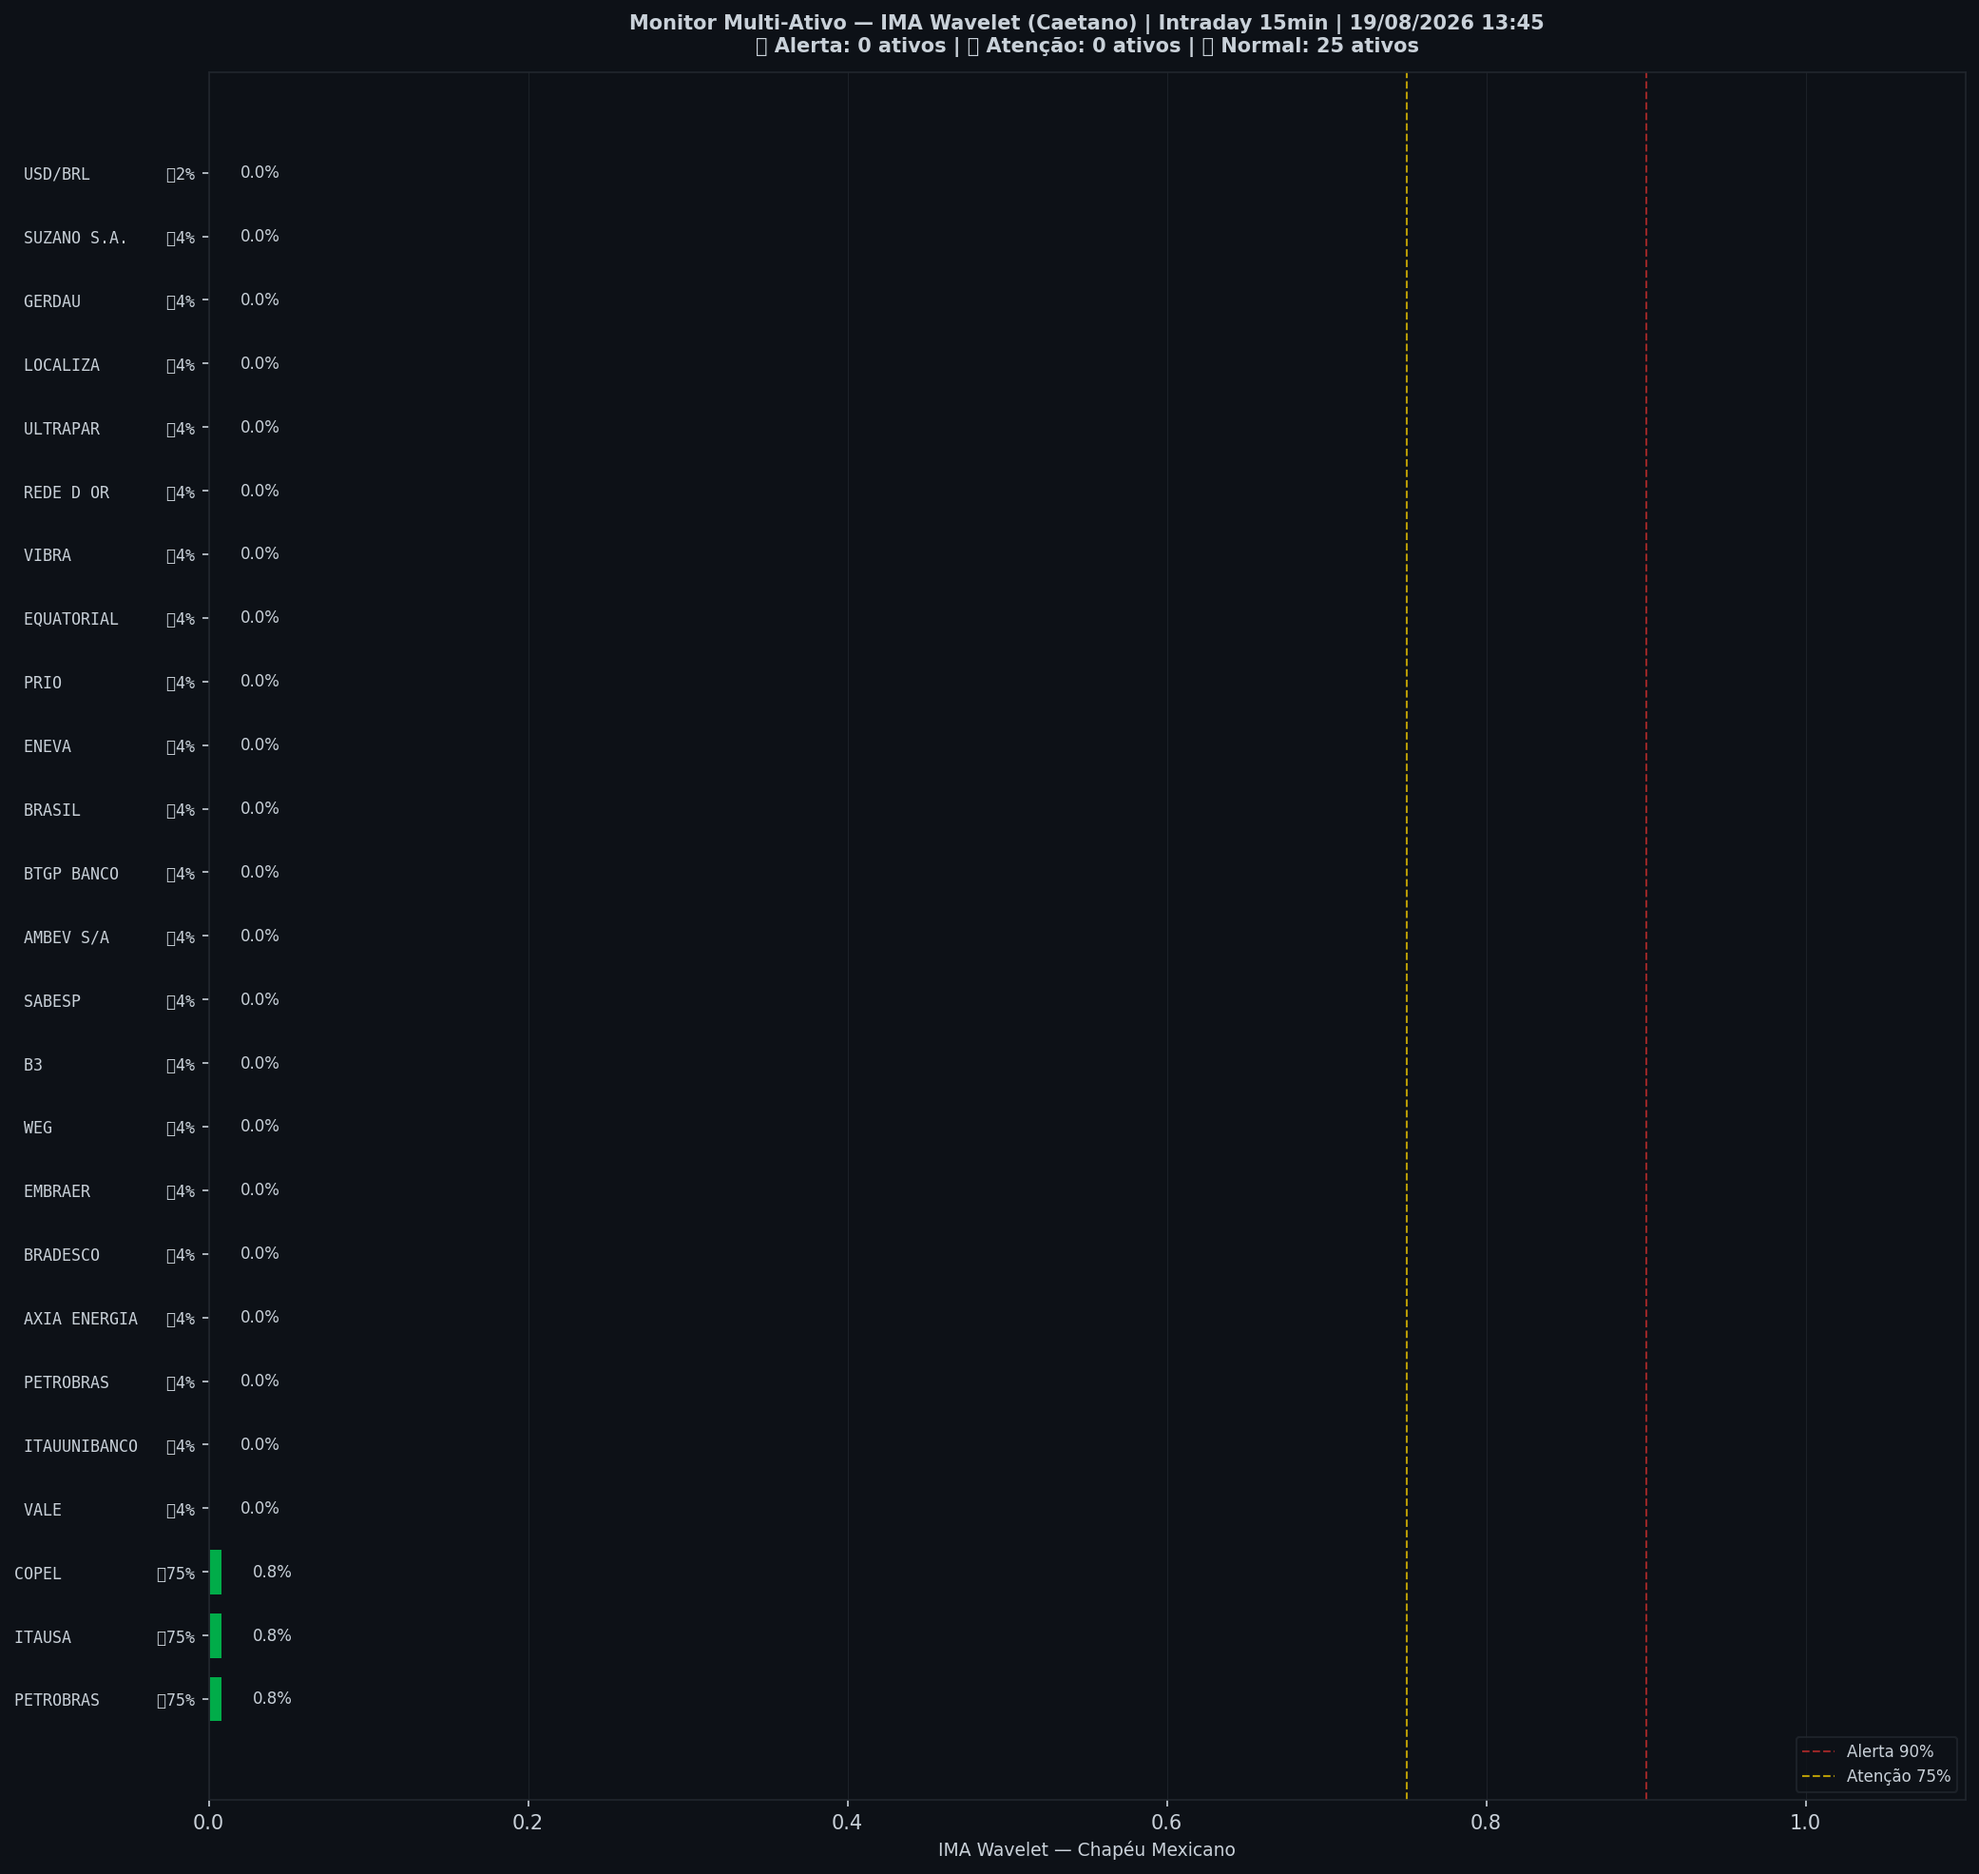
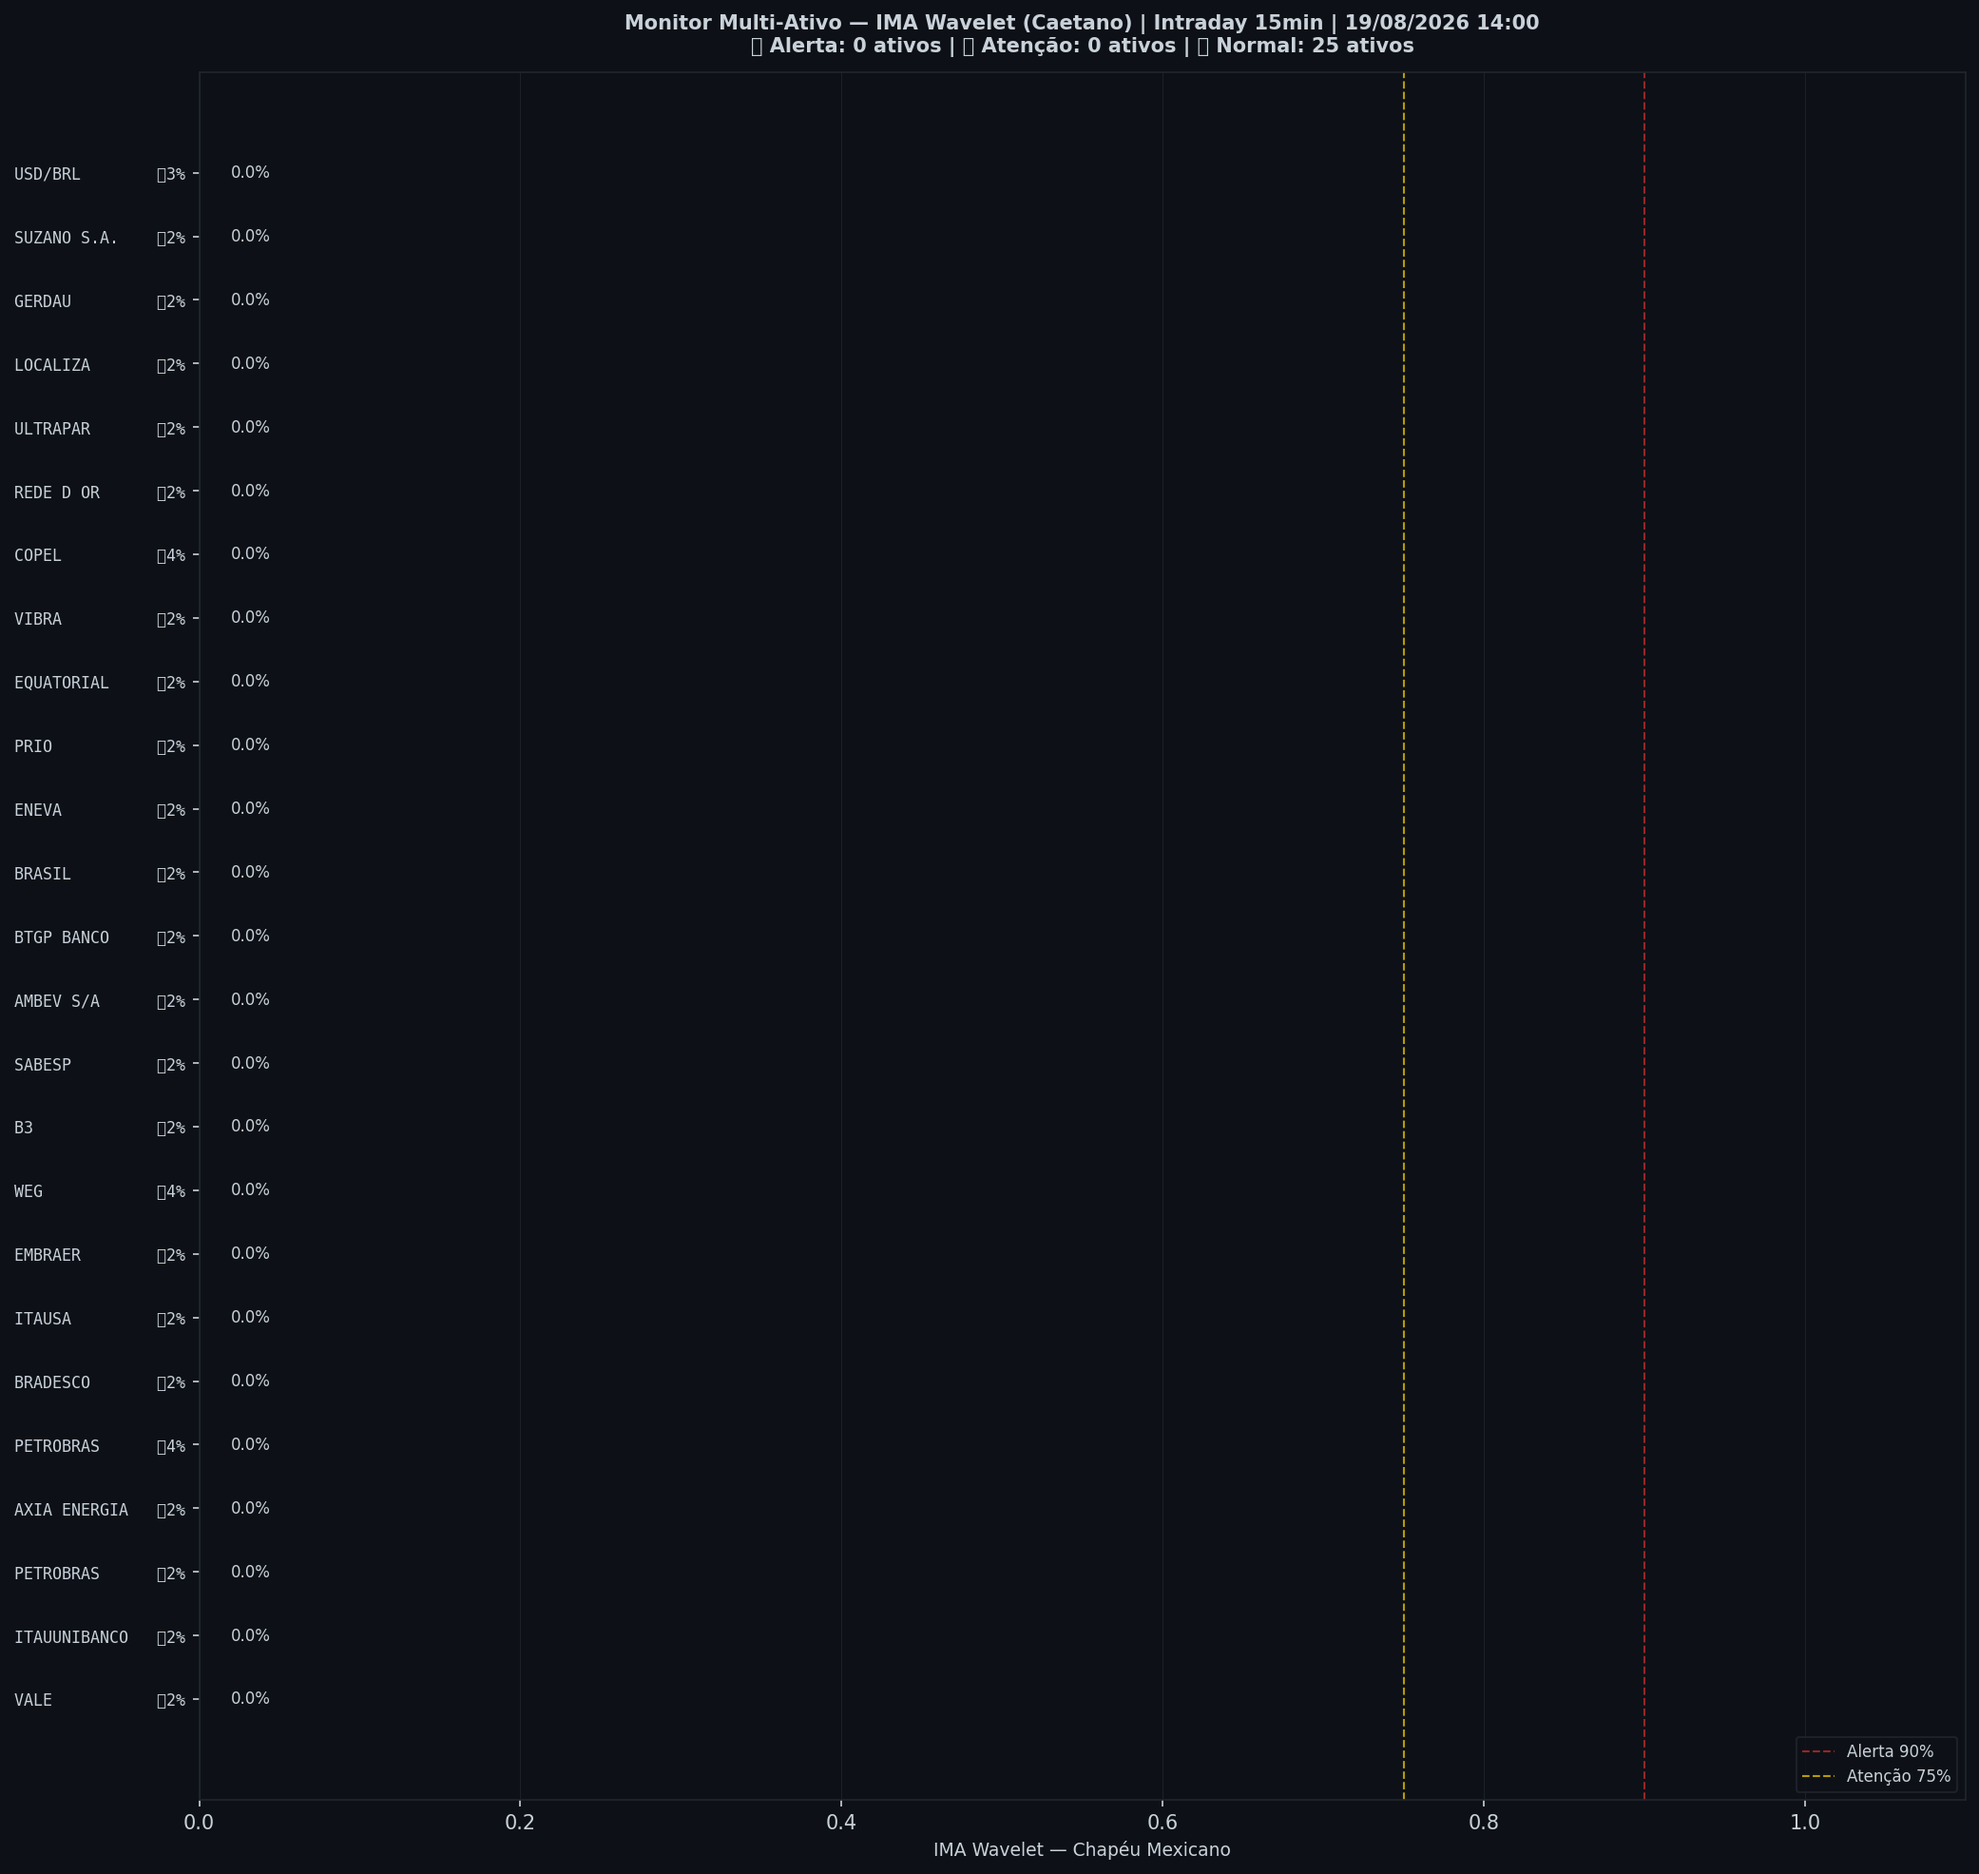
🤖 Auto: Sinal 19/08/2026 14:00

diff --git a/content/intraday/2026-08-19.md b/content/intraday/2026-08-19.md
@@ -1,20 +1,20 @@
 ---
-title: "🔴 Intraday 19/08/2026 13:00 BRT — VERMELHO"
+title: "🔴 Intraday 19/08/2026 13:15 BRT — VERMELHO"
 date: 2026-08-19
 tags: [intraday]
 ---
 
-> [!danger] 🔴 **VERMELHO** — Risco 89% · ▼ -4 p.p. vs leitura anterior
-> `██████████████████░░`
+> [!danger] 🔴 **VERMELHO** — Risco 86% · ▼ -3 p.p. vs leitura anterior
+> `█████████████████░░░`
 > ALERTA DE CRISE — padrão pré-crise detectado.
 
 
 | Indicador | Valor |
 |---|---|
-| 🔴 ζ Crash — severidade da queda em curso | **89%** |
+| 🔴 ζ Crash — severidade da queda em curso | **86%** |
 | 🔵 ζ Entrada — estrutura de fundo | 2% |
 | 🫧 LPPL DS-Confidence | 0% |
-| 📊 Ibovespa | 168.304 pts |
+| 📊 Ibovespa | 167.977 pts |
 
 ![Gráfico do sinal](../graficos/sinal_intraday.png)
 
@@ -22,6 +22,7 @@ tags: [intraday]
 
 | Data | Zona | Risco | IMA Crash | Entrada | LPPL |
 |---|---|---|---|---|---|
+| 2026-08-19 13:15 | 🔴 VERMELHO | **86%** | 86% | 2% | 0% |
 | 2026-08-19 13:00 | 🔴 VERMELHO | **89%** | 89% | 2% | 0% |
 | 2026-08-19 12:45 | 🔴 VERMELHO | **93%** | 93% | 1% | 0% |
 | 2026-08-19 12:30 | 🔴 VERMELHO | **96%** | 96% | 0% | 0% |
@@ -51,7 +52,6 @@ tags: [intraday]
 | 2026-08-18 13:30 | 🟡 AMARELO | **45%** | 45% | 0% | 0% |
 | 2026-08-18 13:15 | 🟡 AMARELO | **51%** | 51% | 0% | 0% |
 | 2026-08-18 13:00 | 🟡 AMARELO | **62%** | 62% | 0% | 0% |
-| 2026-08-18 12:45 | 🟡 AMARELO | **71%** | 71% | 2% | 0% |
 
 ## Monitor Multi-Ativo
 
@@ -59,35 +59,35 @@ tags: [intraday]
 
 | Zona | Ativo | Setor | IMA Crash | IMA Entrada |
 |---|---|---|---|---|
-| 🟢 | **PETROBRAS** | Petróleo | 0.8% | 75.0% |
-| 🟢 | **ITAUSA** | Financeiro | 0.8% | 75.0% |
-| 🟢 | **COPEL** | Energia | 0.8% | 75.0% |
-| 🟢 | **VALE** | Mineração | 0.0% | 3.9% |
-| 🟢 | **ITAUUNIBANCO** | Financeiro | 0.0% | 3.9% |
+| 🟢 | **VALE** | Mineração | 0.0% | 1.6% |
+| 🟢 | **ITAUUNIBANCO** | Financeiro | 0.0% | 1.6% |
+| 🟢 | **PETROBRAS** | Petróleo | 0.0% | 1.6% |
+| 🟢 | **AXIA ENERGIA** | Energia | 0.0% | 1.6% |
 | 🟢 | **PETROBRAS** | Petróleo | 0.0% | 3.9% |
-| 🟢 | **AXIA ENERGIA** | Energia | 0.0% | 3.9% |
-| 🟢 | **BRADESCO** | Financeiro | 0.0% | 3.9% |
-| 🟢 | **EMBRAER** | Outros | 0.0% | 3.9% |
+| 🟢 | **BRADESCO** | Financeiro | 0.0% | 1.6% |
+| 🟢 | **ITAUSA** | Financeiro | 0.0% | 1.6% |
+| 🟢 | **EMBRAER** | Outros | 0.0% | 1.6% |
 | 🟢 | **WEG** | Industrial | 0.0% | 3.9% |
-| 🟢 | **B3** | Financeiro | 0.0% | 3.9% |
-| 🟢 | **SABESP** | Saneamento | 0.0% | 3.9% |
-| 🟢 | **AMBEV S/A** | Consumo | 0.0% | 3.9% |
-| 🟢 | **BTGP BANCO** | Financeiro | 0.0% | 3.9% |
-| 🟢 | **BRASIL** | Financeiro | 0.0% | 3.9% |
-| 🟢 | **ENEVA** | Energia | 0.0% | 3.9% |
-| 🟢 | **PRIO** | Petróleo | 0.0% | 3.9% |
-| 🟢 | **EQUATORIAL** | Energia | 0.0% | 3.9% |
-| 🟢 | **VIBRA** | Energia | 0.0% | 3.9% |
-| 🟢 | **REDE D OR** | Saúde | 0.0% | 3.9% |
-| 🟢 | **ULTRAPAR** | Outros | 0.0% | 3.9% |
-| 🟢 | **LOCALIZA** | Aluguel | 0.0% | 3.9% |
-| 🟢 | **GERDAU** | Siderurgia | 0.0% | 3.9% |
-| 🟢 | **SUZANO S.A.** | Papel/Celulose | 0.0% | 3.9% |
-| 🟢 | **USD/BRL** | Câmbio | 0.0% | 1.6% |
+| 🟢 | **B3** | Financeiro | 0.0% | 1.6% |
+| 🟢 | **SABESP** | Saneamento | 0.0% | 1.6% |
+| 🟢 | **AMBEV S/A** | Consumo | 0.0% | 1.6% |
+| 🟢 | **BTGP BANCO** | Financeiro | 0.0% | 1.6% |
+| 🟢 | **BRASIL** | Financeiro | 0.0% | 1.6% |
+| 🟢 | **ENEVA** | Energia | 0.0% | 1.6% |
+| 🟢 | **PRIO** | Petróleo | 0.0% | 1.6% |
+| 🟢 | **EQUATORIAL** | Energia | 0.0% | 1.6% |
+| 🟢 | **VIBRA** | Energia | 0.0% | 1.6% |
+| 🟢 | **COPEL** | Energia | 0.0% | 3.9% |
+| 🟢 | **REDE D OR** | Saúde | 0.0% | 1.6% |
+| 🟢 | **ULTRAPAR** | Outros | 0.0% | 1.6% |
+| 🟢 | **LOCALIZA** | Aluguel | 0.0% | 1.6% |
+| 🟢 | **GERDAU** | Siderurgia | 0.0% | 1.6% |
+| 🟢 | **SUZANO S.A.** | Papel/Celulose | 0.0% | 1.6% |
+| 🟢 | **USD/BRL** | Câmbio | 0.0% | 3.1% |
 
 ![Monitor multi-ativo](../graficos/multi_intraday.png)
 
-*Página atualizada em 19/08/2026 13:45 BRT (leitura da barra de 2026-08-19 13:00 BRT).*
+*Página atualizada em 19/08/2026 14:00 BRT (leitura da barra de 2026-08-19 13:15 BRT).*
 
 > [!info]- Como interpretar (clique para expandir)
 > - **ζ Crash**: fração dos coeficientes wavelet acima do corte (Caetano & Yoneyama 2009). Escala absoluta: ζ=0,90 = 90% dos coeficientes anômalos — historicamente, quedas com ζ≥0,90 foram mais fundas e mais longas. **Mede a severidade do movimento em curso, não prevê o início da queda.**

diff --git a/content/index.md b/content/index.md
@@ -8,19 +8,19 @@ tags: [home]
 
 Monitoramento diário e intraday do Ibovespa — **IMA Wavelet** (Prof. Marco Antonio Leonel Caetano, ITA/INSPER) + **LPPL DS-Confidence** (Prof. Didier Sornette, ETH-Zurich).
 
-*Última atualização: 19/08/2026 13:45 BRT · ^BVSP · Intraday 15min · v4*
+*Última atualização: 19/08/2026 14:00 BRT · ^BVSP · Intraday 15min · v4*
 
-> [!danger] 🔴 **VERMELHO** — Risco 89% · ▼ -4 p.p. vs leitura anterior
-> `██████████████████░░`
+> [!danger] 🔴 **VERMELHO** — Risco 86% · ▼ -3 p.p. vs leitura anterior
+> `█████████████████░░░`
 > ALERTA DE CRISE — padrão pré-crise detectado.
 
 
 | Indicador | Valor |
 |---|---|
-| 🔴 ζ Crash — severidade da queda em curso | **89%** |
+| 🔴 ζ Crash — severidade da queda em curso | **86%** |
 | 🔵 ζ Entrada — estrutura de fundo | 2% |
 | 🫧 LPPL DS-Confidence | 0% |
-| 📊 Ibovespa | 168.304 pts |
+| 📊 Ibovespa | 167.977 pts |
 
 **Multi-ativo:** 0% em tensão (0🔴 0🟡 de 25 ativos)
 
@@ -32,7 +32,7 @@ Monitoramento diário e intraday do Ibovespa — **IMA Wavelet** (Prof. Marco An
 
 | Data | Zona | Risco | IMA | LPPL |
 |---|---|---|---|---|
-| [19 Aug 2026](diario/2026-08-19) | 🔴 VERMELHO | **89%** | 89% | 0% |
+| [19 Aug 2026](diario/2026-08-19) | 🔴 VERMELHO | **86%** | 86% | 0% |
 | [18 Aug 2026](diario/2026-08-18) | 🟢 VERDE | **10%** | 10% | 0% |
 
 ## Navegação

diff --git a/content/historico.md b/content/historico.md
@@ -7,6 +7,7 @@ tags: [historico]
 
 | Data | Modo | Zona | Risco | IMA | LPPL |
 |---|---|---|---|---|---|
+| 2026-08-19 13:15 | intraday | 🔴 VERMELHO | 86% | 86% | 0% |
 | 2026-08-19 13:00 | intraday | 🔴 VERMELHO | 89% | 89% | 0% |
 | 2026-08-19 12:45 | intraday | 🔴 VERMELHO | 93% | 93% | 0% |
 | 2026-08-19 12:30 | intraday | 🔴 VERMELHO | 96% | 96% | 0% |
